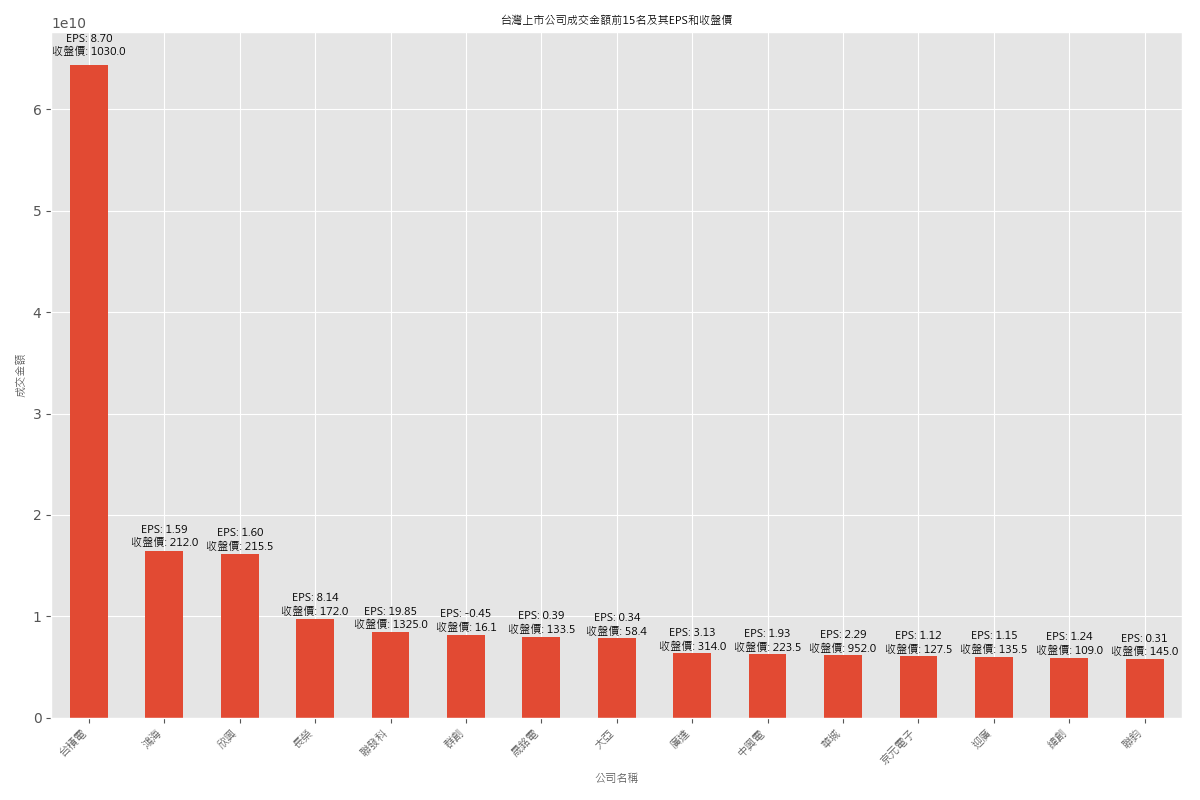
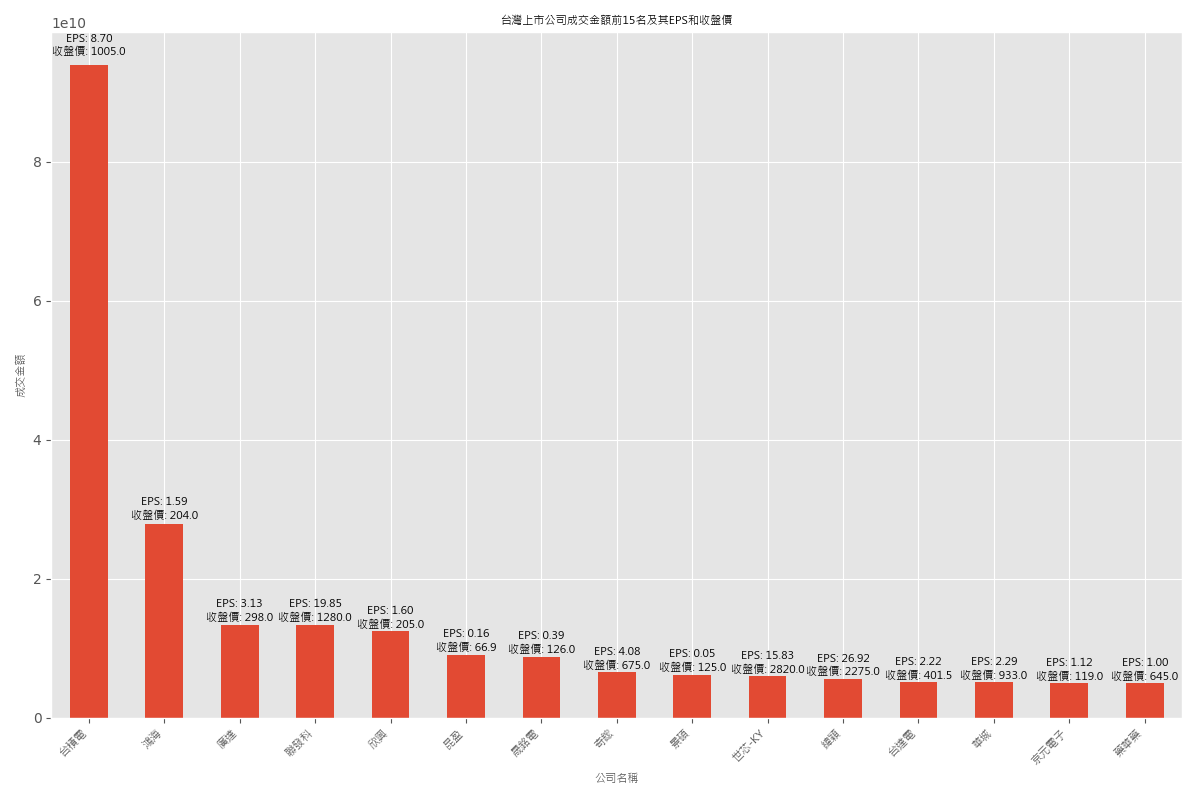
Update from GitHub Actions

diff --git a/README.md b/README.md
@@ -18,37 +18,45 @@ EPS從每年的年初開始計算。
 
 ![2317_3month_history](https://github.com/weitsunglin/quick_analyze_taiwan_hot_stock/blob/main/hot/2317_3month_history.png)
 
-### 股票代號：3037
+### 股票代號：2382
 
-![3037_3month_history](https://github.com/weitsunglin/quick_analyze_taiwan_hot_stock/blob/main/hot/3037_3month_history.png)
-
-### 股票代號：2603
-
-![2603_3month_history](https://github.com/weitsunglin/quick_analyze_taiwan_hot_stock/blob/main/hot/2603_3month_history.png)
+![2382_3month_history](https://github.com/weitsunglin/quick_analyze_taiwan_hot_stock/blob/main/hot/2382_3month_history.png)
 
 ### 股票代號：2454
 
 ![2454_3month_history](https://github.com/weitsunglin/quick_analyze_taiwan_hot_stock/blob/main/hot/2454_3month_history.png)
 
-### 股票代號：3481
+### 股票代號：3037
 
-![3481_3month_history](https://github.com/weitsunglin/quick_analyze_taiwan_hot_stock/blob/main/hot/3481_3month_history.png)
+![3037_3month_history](https://github.com/weitsunglin/quick_analyze_taiwan_hot_stock/blob/main/hot/3037_3month_history.png)
+
+### 股票代號：2365
+
+![2365_3month_history](https://github.com/weitsunglin/quick_analyze_taiwan_hot_stock/blob/main/hot/2365_3month_history.png)
 
 ### 股票代號：3013
 
 ![3013_3month_history](https://github.com/weitsunglin/quick_analyze_taiwan_hot_stock/blob/main/hot/3013_3month_history.png)
 
-### 股票代號：1609
+### 股票代號：3017
 
-![1609_3month_history](https://github.com/weitsunglin/quick_analyze_taiwan_hot_stock/blob/main/hot/1609_3month_history.png)
+![3017_3month_history](https://github.com/weitsunglin/quick_analyze_taiwan_hot_stock/blob/main/hot/3017_3month_history.png)
 
-### 股票代號：2382
+### 股票代號：3189
 
-![2382_3month_history](https://github.com/weitsunglin/quick_analyze_taiwan_hot_stock/blob/main/hot/2382_3month_history.png)
+![3189_3month_history](https://github.com/weitsunglin/quick_analyze_taiwan_hot_stock/blob/main/hot/3189_3month_history.png)
 
-### 股票代號：1513
+### 股票代號：3661
 
-![1513_3month_history](https://github.com/weitsunglin/quick_analyze_taiwan_hot_stock/blob/main/hot/1513_3month_history.png)
+![3661_3month_history](https://github.com/weitsunglin/quick_analyze_taiwan_hot_stock/blob/main/hot/3661_3month_history.png)
+
+### 股票代號：6669
+
+![6669_3month_history](https://github.com/weitsunglin/quick_analyze_taiwan_hot_stock/blob/main/hot/6669_3month_history.png)
+
+### 股票代號：2308
+
+![2308_3month_history](https://github.com/weitsunglin/quick_analyze_taiwan_hot_stock/blob/main/hot/2308_3month_history.png)
 
 ### 股票代號：1519
 
@@ -58,15 +66,7 @@ EPS從每年的年初開始計算。
 
 ![2449_3month_history](https://github.com/weitsunglin/quick_analyze_taiwan_hot_stock/blob/main/hot/2449_3month_history.png)
 
-### 股票代號：6117
+### 股票代號：6446
 
-![6117_3month_history](https://github.com/weitsunglin/quick_analyze_taiwan_hot_stock/blob/main/hot/6117_3month_history.png)
-
-### 股票代號：3231
-
-![3231_3month_history](https://github.com/weitsunglin/quick_analyze_taiwan_hot_stock/blob/main/hot/3231_3month_history.png)
-
-### 股票代號：3450
-
-![3450_3month_history](https://github.com/weitsunglin/quick_analyze_taiwan_hot_stock/blob/main/hot/3450_3month_history.png)
+![6446_3month_history](https://github.com/weitsunglin/quick_analyze_taiwan_hot_stock/blob/main/hot/6446_3month_history.png)
 
